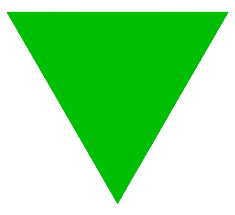
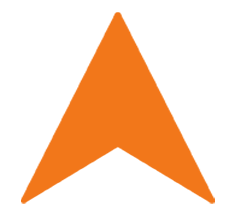
added robot position marker

diff --git a/src/views/MappingView.vue b/src/views/MappingView.vue
@@ -148,6 +148,9 @@ export default {
       stopServiceClient: null,
       map_save_btn_busy: null,
       map_name: "test",
+      laser_listener: null,
+      tf_client: null,
+      poseListner: null,
     };
   },
   computed: {
@@ -246,8 +249,13 @@ export default {
     },
   },
   mounted() {
+    let vm = this;
+
+    // resixze image view
     document.getElementById("camera").style.width = "480px";
     document.getElementById("camera").style.height = "360px";
+
+    // register service clients
     this.startServiceClient = new ROSLIB.Service({
       ros: this.ros,
       name: this.api_start_service_name,
@@ -258,6 +266,7 @@ export default {
       name: this.api_stop_service_name,
       serviceType: this.api_srv_type,
     });
+
     // Create the main viewer.
     var viewer = new ROS2D.Viewer({
       divID: "map",
@@ -279,14 +288,6 @@ export default {
       rootObject: viewer.scene,
       continuous: true,
     });
-    var robotMarker = new ROS2D.NavigationImage({
-      size: 0.8,
-      pulse: true,
-      image: require("../assets/navTriangle.png"),
-    });
-    robotMarker.x = 0;
-    robotMarker.y = 0;
-    robotMarker.z = 45;
 
     // Scale the canvas to fit to the map
     gridClient.on("change", function () {
@@ -302,8 +303,6 @@ export default {
       displayLaserScan();
     });
 
-    gridClient.rootObject.addChild(robotMarker);
-
     function registerMouseHandlers() {
       // Setup mouse event handlers
       var mouseDown = false;
@@ -317,9 +316,6 @@ export default {
         } else if (event.nativeEvent.shiftKey === true) {
           panKey = true;
           panView.startPan(event.stageX, event.stageY);
-        } else {
-          // var pos = viewer.scene.globalToRos(event.stageX, event.stageY);
-          // navGoal.startGoalSelection(pos);
         }
         startPos.x = event.stageX;
         startPos.y = event.stageY;
@@ -336,9 +332,6 @@ export default {
             zoomView.zoom(zoom);
           } else if (panKey === true) {
             panView.pan(event.stageX, event.stageY);
-          } else {
-            // var pos = viewer.scene.globalToRos(event.stageX, event.stageY);
-            // navGoal.orientGoalSelection(pos);
           }
         }
       });
@@ -349,31 +342,27 @@ export default {
             zoomKey = false;
           } else if (panKey === true) {
             panKey = false;
-          } else {
-            // var pos = viewer.scene.globalToRos(event.stageX, event.stageY);
-            // var goalPose = navGoal.endGoalSelection(pos);
-            // navGoal.sendGoal(goalPose);
           }
           mouseDown = false;
         }
       });
     }
-
-    let vm = this;
     function getYawFromQuat(q) {
       var quat = new THREE.Quaternion(q.x, q.y, q.z, q.w);
       var yaw = new THREE.Euler().setFromQuaternion(quat);
       return yaw["_z"] * (180 / Math.PI);
     }
+
+    // Laser scanner
     function displayLaserScan() {
       var base_footprint_tf = null;
-      var tf_client = vm.ros.TFClient({
+      vm.tf_client = vm.ros.TFClient({
         ros: vm.ros,
         fixedFrame: "map",
         angularThres: 0.01,
         transThres: 0.01,
       });
-      tf_client.subscribe("/base_link", function (tf) {
+      vm.tf_client.subscribe("/base_link", function (tf) {
         base_footprint_tf = tf;
       });
 
@@ -381,12 +370,12 @@ export default {
       let marker_fill_color = createjs.Graphics.getRGB(255, 0, 0, 1.0);
       let prev_markers = null;
 
-      let laser_listener = vm.ros.Topic({
+      vm.laser_listener = vm.ros.Topic({
         ros: vm.ros,
         name: "ninjabot/scan",
         messageType: "sensor_msgs/LaserScan",
       });
-      laser_listener.subscribe(function (msg) {
+      vm.laser_listener.subscribe(function (msg) {
         const num = msg.ranges.length;
         const angles = Array.from(
           { length: num },
@@ -444,6 +433,29 @@ export default {
         prev_markers = scan_markers;
       });
     }
+
+    //  Robot pose marker
+    var robotMarker =new ROS2D.NavigationImage({
+      size: 0.8,
+      pulse: false,
+      image: require("../assets/navTriangle.png"),
+    });
+    gridClient.rootObject.addChild(robotMarker);
+    this.poseListner = vm.ros.Topic({
+      ros: vm.ros,
+      name: "odom",
+      messageType: "nav_msgs/Odometry",
+    });
+    this.poseListner.subscribe(function (msg) {
+      robotMarker.x = msg.pose.pose.position.x;
+      robotMarker.y = -msg.pose.pose.position.y;
+      robotMarker.rotation = -getYawFromQuat(msg.pose.pose.orientation).toFixed(2)
+    });
+  },
+  unmounted() {
+    this.laser_listener.unsubscribe();
+    this.tf_client.unsubscribe();
+    this.poseListner.unsubscribe();
   },
 };
 </script>

diff --git a/public/ros2d.js b/public/ros2d.js
@@ -478,46 +478,52 @@ ROS2D.Grid.prototype.__proto__ = createjs.Shape.prototype;
  */
 ROS2D.NavigationArrow = function(options) {
   var that = this;
-  options = options || {};
-  var size = options.size || 10;
-  var strokeSize = options.strokeSize || 3;
-  var strokeColor = options.strokeColor || createjs.Graphics.getRGB(0, 0, 0);
-  var fillColor = options.fillColor || createjs.Graphics.getRGB(255, 0, 0);
-  var pulse = options.pulse;
+	options = options || {};
+	var size = options.size || 10;
+	var strokeSize = options.strokeSize || 3;
+	var strokeColor = options.strokeColor || createjs.Graphics.getRGB(0, 0, 0);
+	var fillColor = options.fillColor || createjs.Graphics.getRGB(255, 0, 0);
+	var pulse = options.pulse;
 
-  // draw the arrow
-  var graphics = new createjs.Graphics();
-  // line width
-  graphics.setStrokeStyle(strokeSize);
-  graphics.moveTo(-size / 2.0, -size / 2.0);
-  graphics.beginStroke(strokeColor);
-  graphics.beginFill(fillColor);
-  graphics.lineTo(size, 0);
-  graphics.lineTo(-size / 2.0, size / 2.0);
-  graphics.closePath();
-  graphics.endFill();
-  graphics.endStroke();
+	// draw the arrow
+	var graphics = new createjs.Graphics();
 
-  // create the shape
-  createjs.Shape.call(this, graphics);
+	var headLen = size / 3.0;
+	var headWidth = headLen * 2.0 / 3.0;
 
-  // check if we are pulsing
-  if (pulse) {
-    // have the model "pulse"
-    var growCount = 0;
-    var growing = true;
-    createjs.Ticker.addEventListener('tick', function() {
-      if (growing) {
-        that.scaleX *= 1.035;
-        that.scaleY *= 1.035;
-        growing = (++growCount < 10);
-      } else {
-        that.scaleX /= 1.035;
-        that.scaleY /= 1.035;
-        growing = (--growCount < 0);
-      }
-    });
-  }
+	graphics.setStrokeStyle(strokeSize);
+	graphics.beginStroke(strokeColor);
+	graphics.moveTo(0, 0);
+	graphics.lineTo(size-headLen, 0);
+
+	graphics.beginFill(fillColor);
+	graphics.moveTo(size, 0);
+	graphics.lineTo(size-headLen, headWidth / 2.0);
+	graphics.lineTo(size-headLen, -headWidth / 2.0);
+	graphics.closePath();
+	graphics.endFill();
+	graphics.endStroke();
+
+	// create the shape
+	createjs.Shape.call(this, graphics);
+
+	// check if we are pulsing
+	if (pulse) {
+		// have the model "pulse"
+		var growCount = 0;
+		var growing = true;
+		createjs.Ticker.addEventListener('tick', function() {
+			if (growing) {
+				that.scaleX *= 1.035;
+				that.scaleY *= 1.035;
+				growing = (++growCount < 10);
+			} else {
+				that.scaleX /= 1.035;
+				that.scaleY /= 1.035;
+				growing = (--growCount < 0);
+			}
+		});
+	}
 };
 ROS2D.NavigationArrow.prototype.__proto__ = createjs.Shape.prototype;
 

diff --git a/src/views/NavigationView.vue b/src/views/NavigationView.vue
@@ -18,25 +18,7 @@
         <map-view class="col-4 p-0"></map-view>
       </div>
     </div>
-    <div
-      class="d-flex flex-row justify-content-end w-100 mt-4"
-      style="height: 40px"
-    >
-      <button
-        type="button"
-        class="btn me-5"
-        :class="{
-          'btn-success': !running_map_node,
-          'btn-danger': running_map_node,
-        }"
-        @click="updateMappingNodeStatus(!running_map_node)"
-      >
-        {{ running_map_node ? "Stop Mapping" : "Start Mapping" }}
-      </button>
-      <button type="button" class="btn text-white me-5 orange-Btn">
-        Save Map
-      </button>
-    </div>
+    
   </div>
 </template>
 
